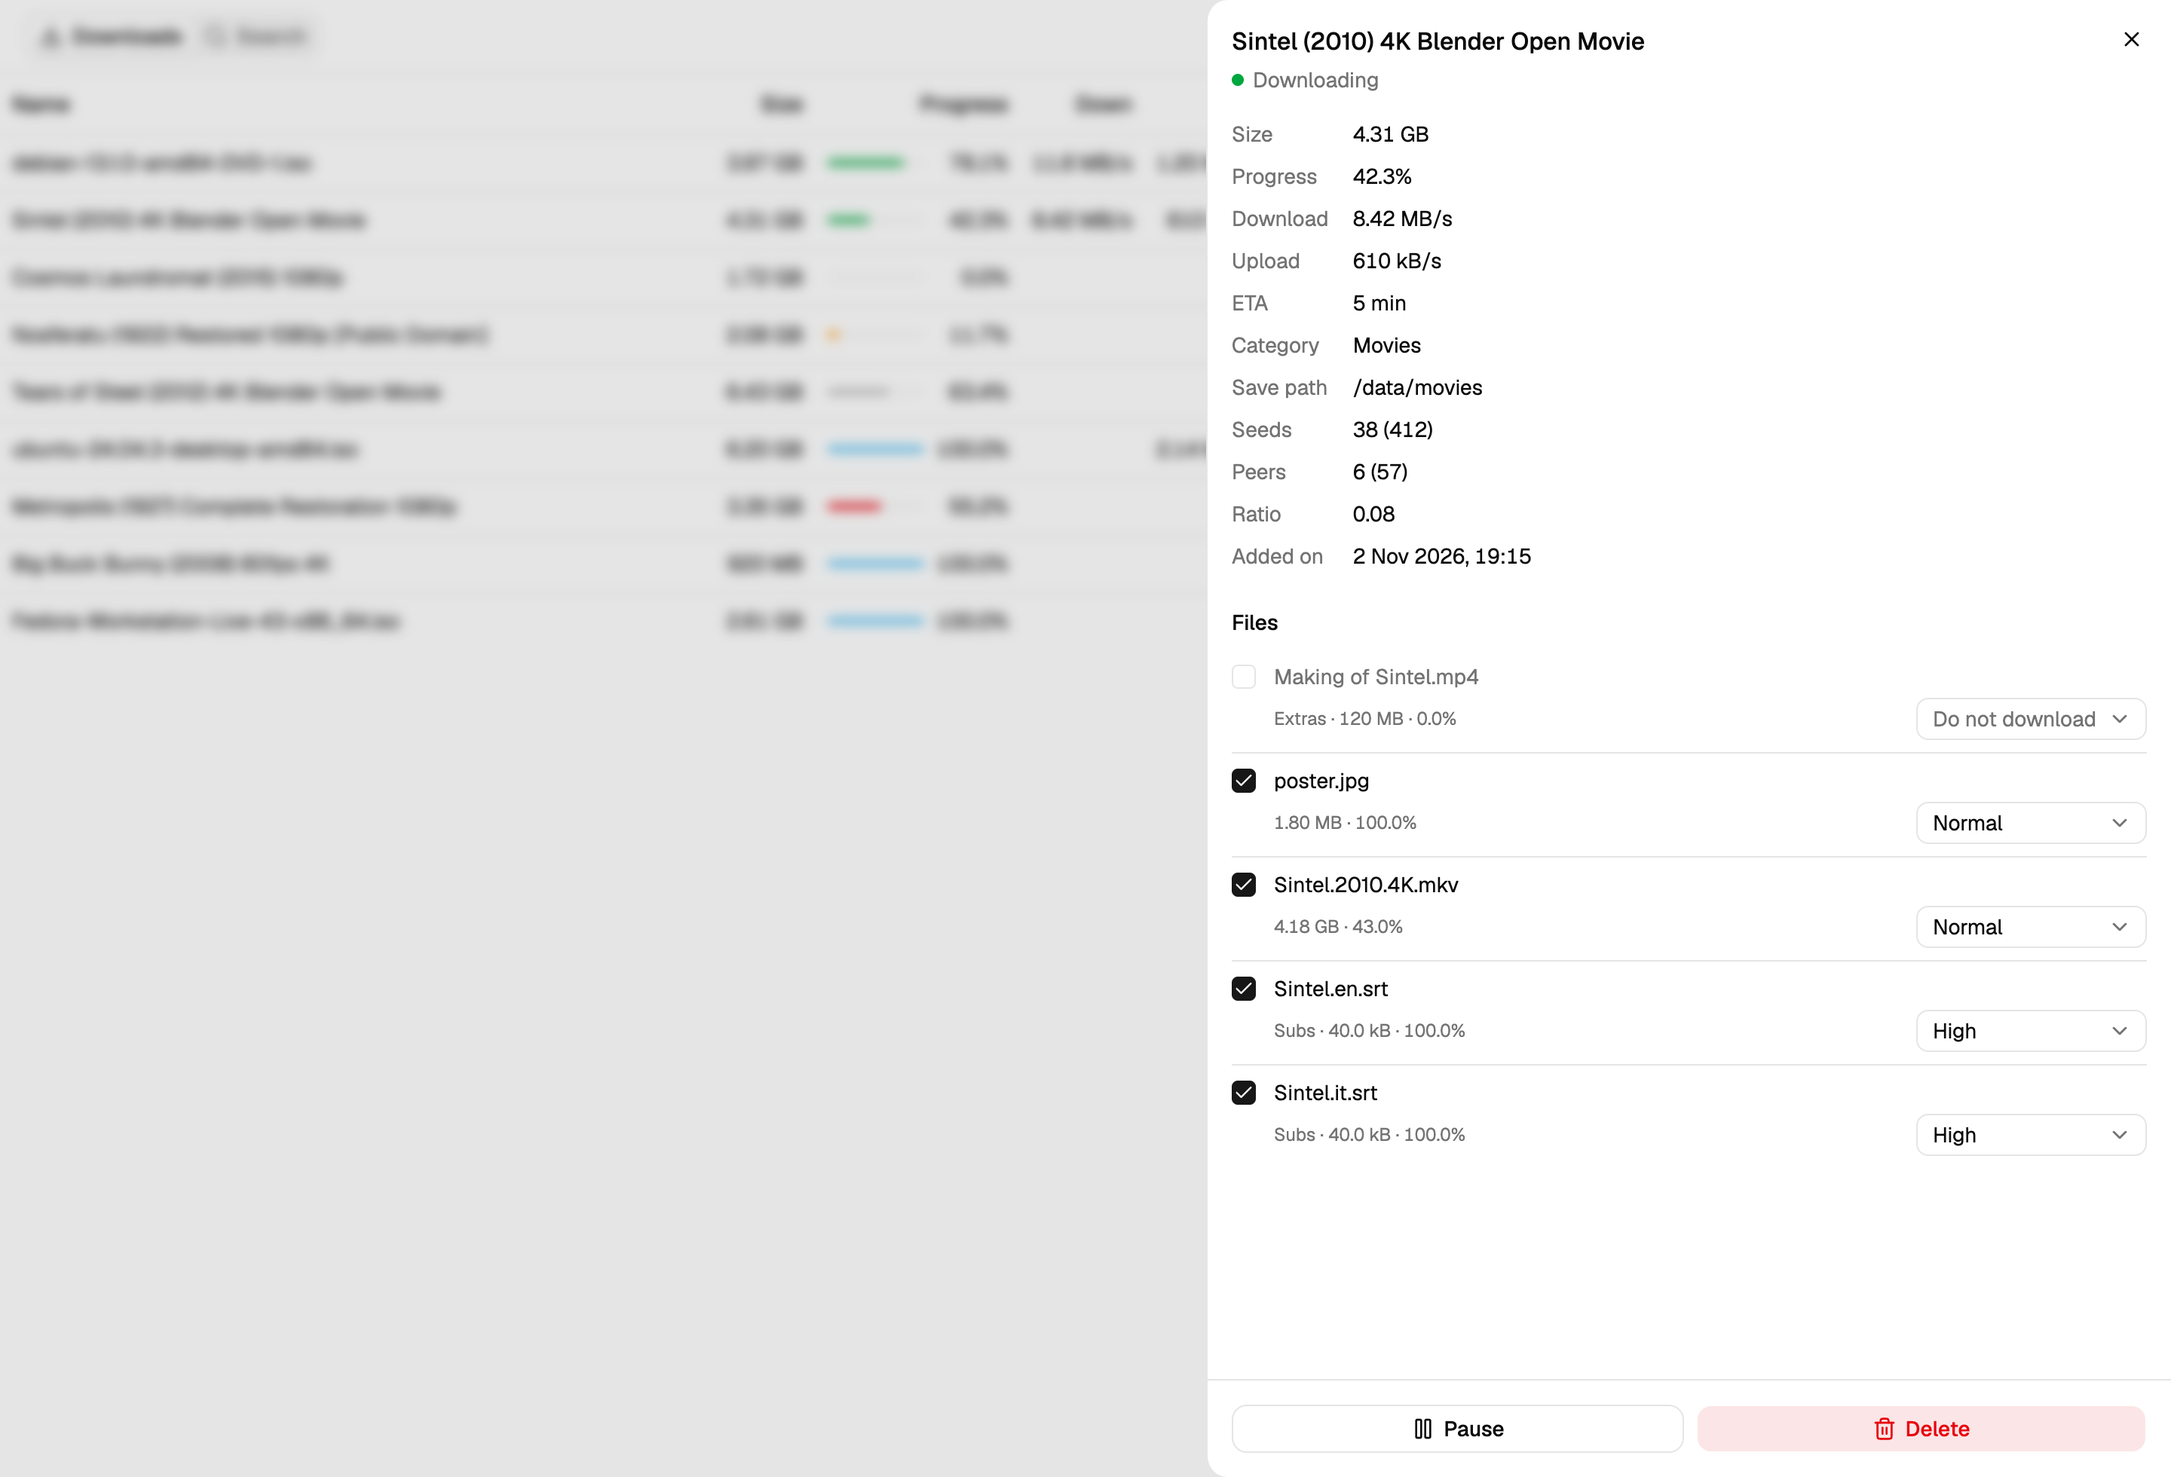
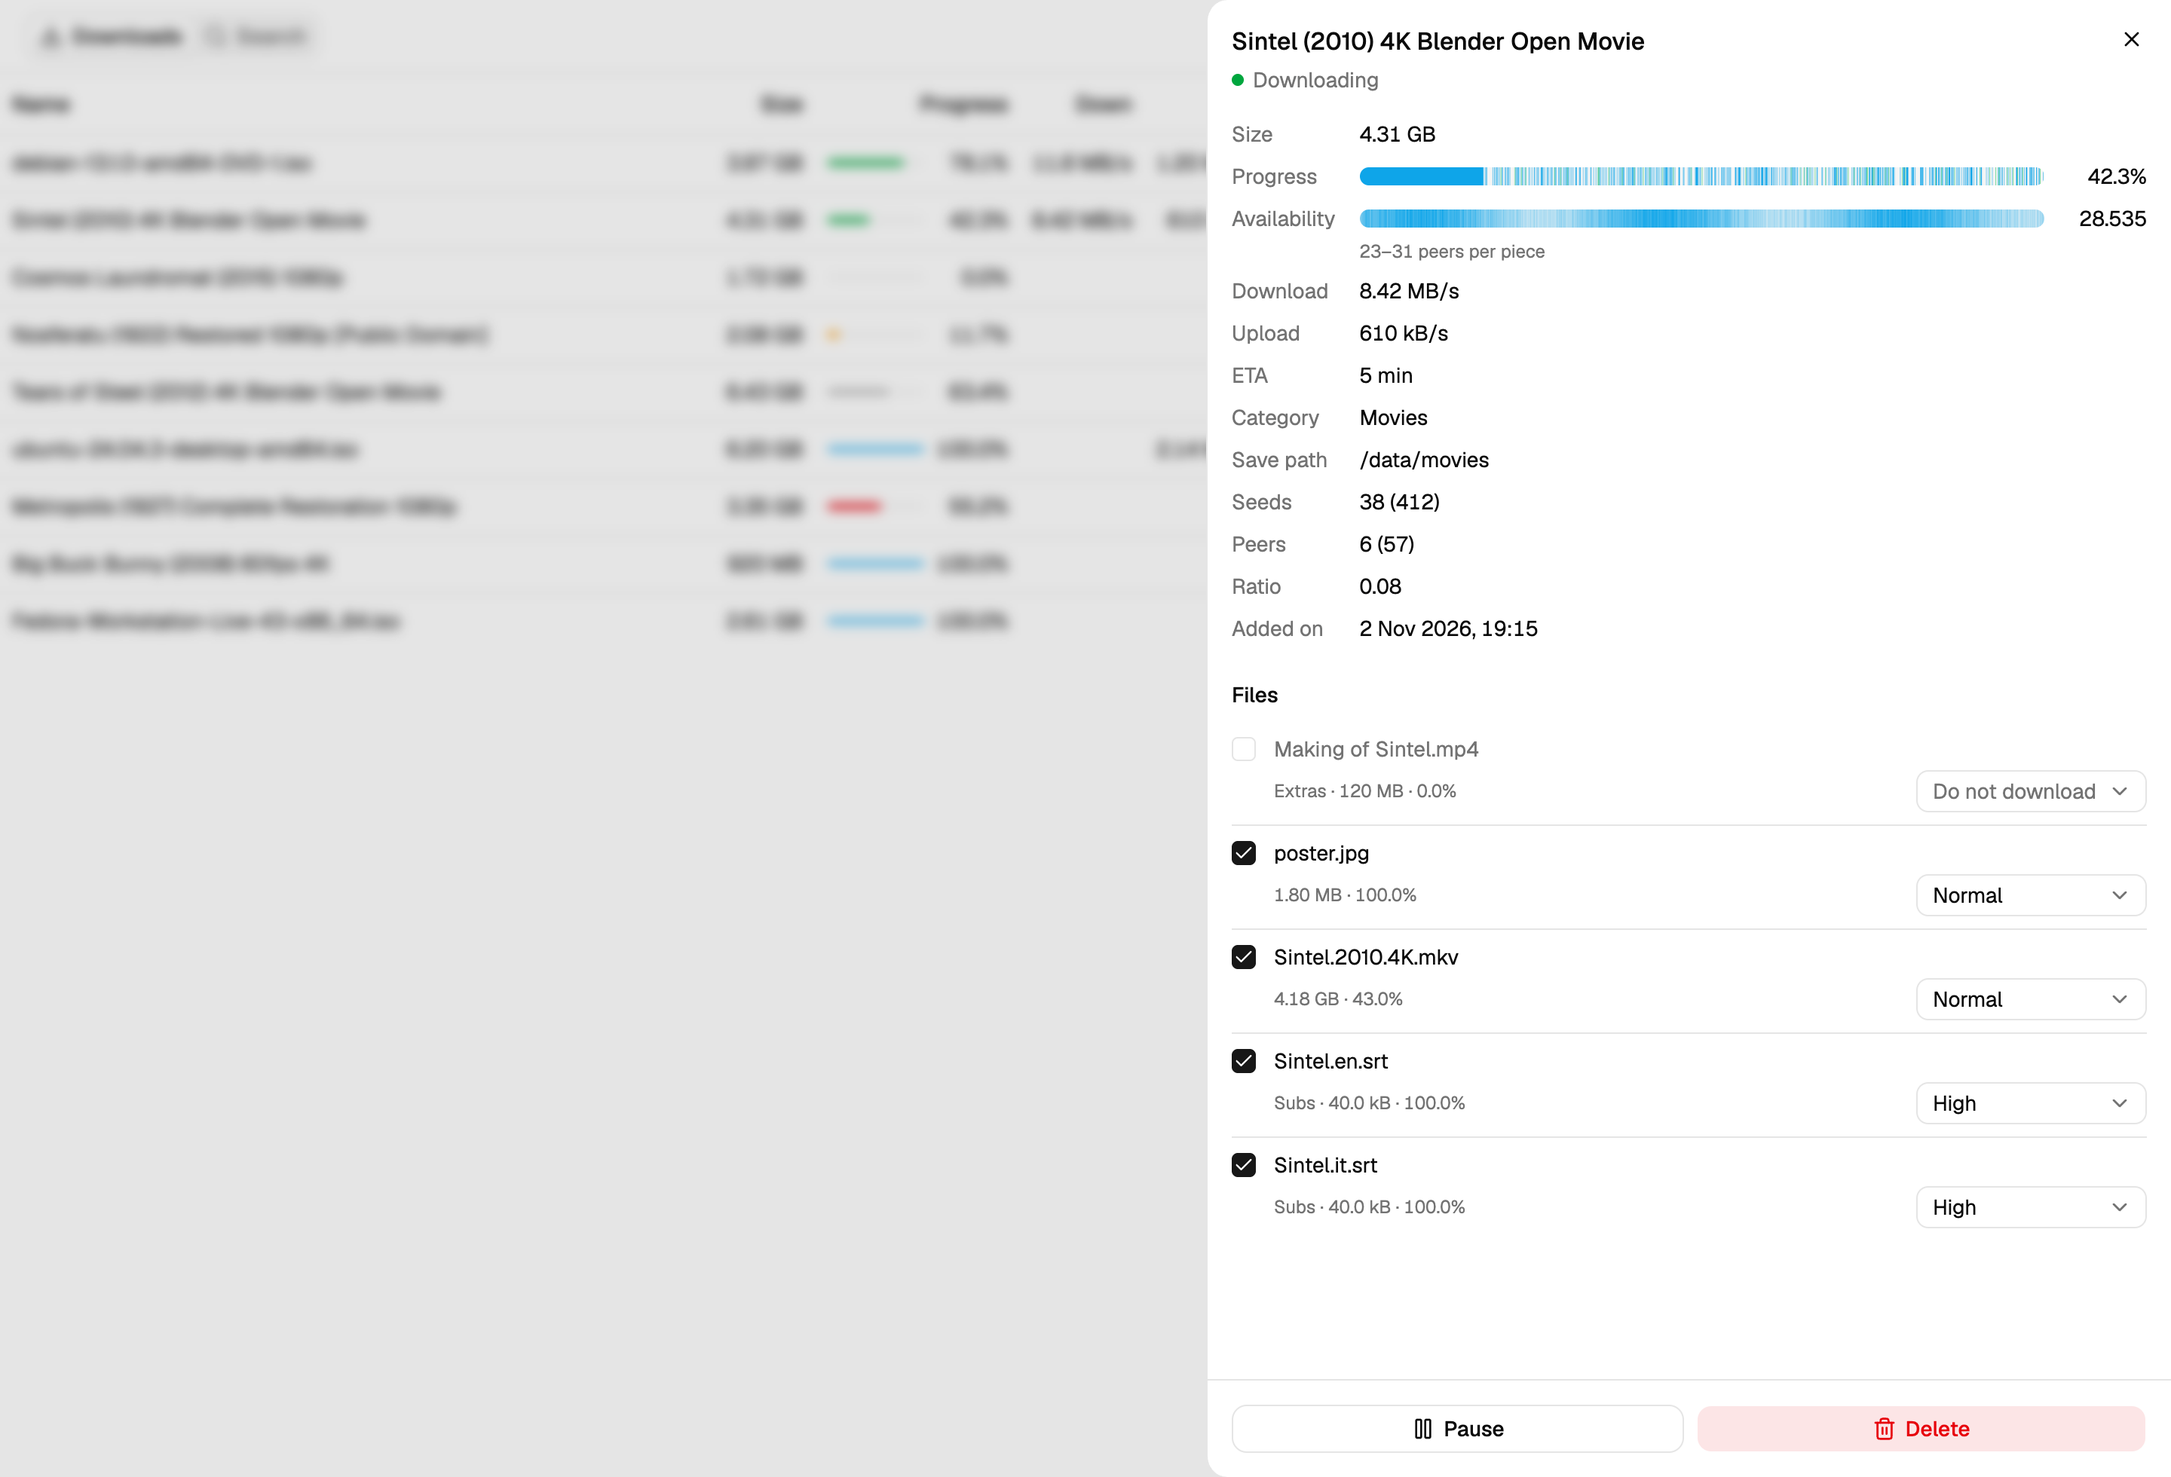
progress and distribution bars

diff --git a/src/components/torrent-drawer.tsx b/src/components/torrent-drawer.tsx
@@ -1,7 +1,11 @@
-import { Fragment, type CSSProperties } from "react"
+import type { CSSProperties, ReactNode } from "react"
 import { X } from "lucide-react"
 
 import type { Torrent } from "@/api/types"
+import {
+  PiecesAvailabilityBar,
+  PiecesProgressBar,
+} from "@/components/pieces-bar"
 import { StateLabel } from "@/components/state-label"
 import { TorrentActions } from "@/components/torrent-actions"
 import { TorrentFiles } from "@/components/torrent-files"
@@ -16,7 +20,9 @@ import {
   DrawerTitle,
 } from "@/components/ui/drawer"
 import { useMediaQuery } from "@/hooks/use-media-query"
+import { useTorrentPieces } from "@/hooks/use-torrent-pieces"
 import {
+  formatAvailability,
   formatBytes,
   formatDate,
   formatPeers,
@@ -24,6 +30,7 @@ import {
   formatRatio,
   formatSpeed,
 } from "@/lib/format"
+import { availabilityRange } from "@/lib/pieces"
 import { etaLabel } from "@/lib/torrents"
 
 // Wider than the default side panel (24rem): file names are long.
@@ -73,14 +80,7 @@ export function TorrentDrawer({
               </DrawerClose>
             )}
             <div className="flex min-h-0 flex-1 flex-col gap-6 overflow-y-auto p-4">
-              <dl className="grid grid-cols-[auto_1fr] gap-x-4 gap-y-2">
-                {details(torrent).map(([term, value]) => (
-                  <Fragment key={term}>
-                    <dt className="text-muted-foreground">{term}</dt>
-                    <dd className="wrap-anywhere tabular-nums">{value}</dd>
-                  </Fragment>
-                ))}
-              </dl>
+              <TorrentDetails torrent={torrent} />
               <TorrentFiles hash={torrent.hash} onChanged={onChanged} />
             </div>
             <DrawerFooter className="flex-row border-t pt-4 *:flex-1">
@@ -93,18 +93,59 @@ export function TorrentDrawer({
   )
 }
 
-function details(t: Torrent): [string, string][] {
-  return [
-    ["Size", formatBytes(t.size)],
-    ["Progress", formatPercent(t.progress)],
-    ["Download", formatSpeed(t.dlspeed)],
-    ["Upload", formatSpeed(t.upspeed)],
-    ["ETA", etaLabel(t)],
-    ["Category", t.category || "None"],
-    ["Save path", t.save_path],
-    ["Seeds", formatPeers(t.num_seeds, t.num_complete)],
-    ["Peers", formatPeers(t.num_leechs, t.num_incomplete)],
-    ["Ratio", formatRatio(t.ratio)],
-    ["Added on", formatDate(t.added_on)],
-  ]
+// A stable empty list while the pieces load, so the bars don't redraw for nothing.
+const NO_PIECES: number[] = []
+
+/** The details list, with pieces bars for progress and availability. */
+function TorrentDetails({ torrent: t }: { torrent: Torrent }) {
+  const pieces = useTorrentPieces(t.hash)
+  const range = pieces && availabilityRange(pieces.availability)
+  return (
+    <dl className="grid grid-cols-[auto_1fr] gap-x-4 gap-y-2">
+      <Row term="Size">{formatBytes(t.size)}</Row>
+      <Row term="Progress">
+        <PiecesProgressBar states={pieces?.states ?? NO_PIECES} />
+        <BarValue>{formatPercent(t.progress)}</BarValue>
+      </Row>
+      <Row term="Availability">
+        <PiecesAvailabilityBar availability={pieces?.availability ?? NO_PIECES} />
+        <BarValue>{formatAvailability(t.availability)}</BarValue>
+        {/* The bar's shades are relative to this range: say what it is. */}
+        {range && (
+          <span className="basis-full text-xs text-muted-foreground">
+            {range.max === 0
+              ? "No peer has any piece"
+              : range.min === range.max
+                ? `${range.max} peers per piece`
+                : `${range.min}–${range.max} peers per piece`}
+          </span>
+        )}
+      </Row>
+      <Row term="Download">{formatSpeed(t.dlspeed)}</Row>
+      <Row term="Upload">{formatSpeed(t.upspeed)}</Row>
+      <Row term="ETA">{etaLabel(t)}</Row>
+      <Row term="Category">{t.category || "None"}</Row>
+      <Row term="Save path">{t.save_path}</Row>
+      <Row term="Seeds">{formatPeers(t.num_seeds, t.num_complete)}</Row>
+      <Row term="Peers">{formatPeers(t.num_leechs, t.num_incomplete)}</Row>
+      <Row term="Ratio">{formatRatio(t.ratio)}</Row>
+      <Row term="Added on">{formatDate(t.added_on)}</Row>
+    </dl>
+  )
+}
+
+function Row({ term, children }: { term: string; children: ReactNode }) {
+  return (
+    <>
+      <dt className="text-muted-foreground">{term}</dt>
+      <dd className="flex flex-wrap items-center gap-x-3 gap-y-1 wrap-anywhere tabular-nums">
+        {children}
+      </dd>
+    </>
+  )
+}
+
+/** The value after a bar: fixed width, so the two bars line up. */
+function BarValue({ children }: { children: string }) {
+  return <span className="w-14 shrink-0 text-right">{children}</span>
 }

diff --git a/src/lib/pieces.ts b/src/lib/pieces.ts
@@ -1,0 +1,76 @@
+// Pieces bars: a torrent has thousands of pieces and a bar a few hundred
+// pixels, so each pixel shows the pieces that fall in it, a piece counting by
+// how much of it falls there (as the official WebUI's bars).
+
+const DOWNLOADING = 1
+const DOWNLOADED = 2
+
+/** For each pixel, the share (0 to 1) of it downloading and downloaded. */
+export function statesPerPixel(states: number[], width: number) {
+  const downloading = new Array<number>(Math.max(width, 0)).fill(0)
+  const downloaded = new Array<number>(Math.max(width, 0)).fill(0)
+  eachShare(states.length, width, (x, piece, share) => {
+    if (states[piece] === DOWNLOADING) downloading[x] += share
+    else if (states[piece] === DOWNLOADED) downloaded[x] += share
+  })
+  return downloaded.map((d, x) => ({
+    downloading: Math.min(downloading[x], 1),
+    downloaded: Math.min(d, 1),
+  }))
+}
+
+// The least shared pieces still show, faintly: empty means no peer has them.
+const FAINTEST = 0.2
+
+/**
+ * For each pixel, how shared its pieces are, from FAINTEST (the least shared
+ * piece) to 1 (the most shared), or 0 where no peer has them. Relative to the
+ * torrent's own range: peers usually hold most pieces, and against zero the
+ * differences would not show.
+ */
+export function availabilityPerPixel(availability: number[], width: number) {
+  const average = new Array<number>(Math.max(width, 0)).fill(0)
+  eachShare(availability.length, width, (x, piece, share) => {
+    average[x] += share * availability[piece]
+  })
+  const [low, high] = minMax(availability.filter((n) => n > 0))
+  return average.map((value) => {
+    if (value <= 0) return 0
+    if (high === low) return 1
+    const t = Math.min(Math.max((value - low) / (high - low), 0), 1)
+    return FAINTEST + (1 - FAINTEST) * t
+  })
+}
+
+/** The fewest and most peers holding a piece, or undefined without pieces. */
+export function availabilityRange(availability: number[]) {
+  if (availability.length === 0) return undefined
+  const [min, max] = minMax(availability)
+  return { min, max }
+}
+
+// Math.min(...list) would overflow the call stack on huge torrents.
+function minMax(list: number[]): [number, number] {
+  return list.reduce<[number, number]>(
+    ([min, max], n) => [Math.min(min, n), Math.max(max, n)],
+    [list.length ? Infinity : 0, list.length ? -Infinity : 0]
+  )
+}
+
+/** Calls `visit` with each piece's share of each pixel it falls in (shares of a pixel sum to 1). */
+function eachShare(
+  count: number,
+  width: number,
+  visit: (pixel: number, piece: number, share: number) => void
+) {
+  if (count === 0 || width <= 0) return
+  const piecesPerPixel = count / width
+  for (let x = 0; x < width; x++) {
+    const from = x * piecesPerPixel
+    const to = (x + 1) * piecesPerPixel
+    for (let piece = Math.floor(from); piece < Math.ceil(to) && piece < count; piece++) {
+      const covered = Math.min(piece + 1, to) - Math.max(piece, from)
+      visit(x, piece, covered / piecesPerPixel)
+    }
+  }
+}

diff --git a/src/components/pieces-bar.tsx b/src/components/pieces-bar.tsx
@@ -1,0 +1,82 @@
+import { useCallback, useEffect, useRef, useState } from "react"
+
+import { availabilityPerPixel, statesPerPixel } from "@/lib/pieces"
+
+// Tailwind's sky-500 and green-500, as the state colors: blue for what is
+// there, green for what is downloading.
+const HAVE_COLOR = "#0ea5e9"
+const DOWNLOADING_COLOR = "#22c55e"
+
+type Draw = (ctx: CanvasRenderingContext2D, width: number, height: number) => void
+
+/** A thin bar of the pieces: downloaded in blue, downloading in green. */
+export function PiecesProgressBar({ states }: { states: number[] }) {
+  const draw = useCallback<Draw>(
+    (ctx, width, height) => {
+      statesPerPixel(states, width).forEach(({ downloaded, downloading }, x) => {
+        fill(ctx, x, height, downloaded, HAVE_COLOR)
+        fill(ctx, x, height, downloading, DOWNLOADING_COLOR)
+      })
+    },
+    [states]
+  )
+  return <PixelBar draw={draw} label="Pieces downloaded" />
+}
+
+/** A thin bar of how many peers have each piece: the bluer, the more. */
+export function PiecesAvailabilityBar({ availability }: { availability: number[] }) {
+  const draw = useCallback<Draw>(
+    (ctx, width, height) => {
+      availabilityPerPixel(availability, width).forEach((value, x) =>
+        fill(ctx, x, height, value, HAVE_COLOR)
+      )
+    },
+    [availability]
+  )
+  return <PixelBar draw={draw} label="Pieces available from peers" />
+}
+
+/** One pixel column, as opaque as `share`: a pixel can mix several pieces. */
+function fill(
+  ctx: CanvasRenderingContext2D,
+  x: number,
+  height: number,
+  share: number,
+  color: string
+) {
+  if (share <= 0) return
+  ctx.globalAlpha = share
+  ctx.fillStyle = color
+  ctx.fillRect(x, 0, 1, height)
+}
+
+/** A canvas over a muted track, drawn pixel by pixel at the screen's resolution. */
+function PixelBar({ draw, label }: { draw: Draw; label: string }) {
+  const canvas = useRef<HTMLCanvasElement>(null)
+  const [width, setWidth] = useState(0)
+
+  useEffect(() => {
+    const element = canvas.current
+    if (!element) return
+    const observer = new ResizeObserver(([entry]) =>
+      setWidth(Math.round(entry.contentRect.width * devicePixelRatio))
+    )
+    observer.observe(element)
+    return () => observer.disconnect()
+  }, [])
+
+  useEffect(() => {
+    const element = canvas.current
+    const ctx = element?.getContext("2d")
+    if (!element || !ctx || width === 0) return
+    element.width = width
+    element.height = Math.round(element.clientHeight * devicePixelRatio)
+    draw(ctx, element.width, element.height)
+  }, [draw, width])
+
+  return (
+    <div className="h-3 min-w-0 flex-1 overflow-hidden rounded-sm bg-muted">
+      <canvas ref={canvas} role="img" aria-label={label} className="block size-full" />
+    </div>
+  )
+}

diff --git a/src/hooks/use-torrent-pieces.ts b/src/hooks/use-torrent-pieces.ts
@@ -1,0 +1,39 @@
+import { useEffect, useState } from "react"
+
+import { getPieceAvailability, getPieceStates } from "@/api/client"
+
+// As often as the official WebUI refreshes its General tab.
+const REFRESH_INTERVAL_MS = 5000
+
+/** A torrent's piece states and availability, refreshed every 5 s while mounted. */
+export function useTorrentPieces(hash: string) {
+  const [pieces, setPieces] = useState<{ states: number[]; availability: number[] }>()
+
+  useEffect(() => {
+    let cancelled = false
+    let timer: ReturnType<typeof setTimeout> | undefined
+
+    async function load() {
+      if (!document.hidden) {
+        try {
+          const [states, availability] = await Promise.all([
+            getPieceStates(hash),
+            getPieceAvailability(hash),
+          ])
+          if (!cancelled) setPieces({ states, availability })
+        } catch {
+          // Keep the last bars: the main polling reports connection problems.
+        }
+      }
+      if (!cancelled) timer = setTimeout(load, REFRESH_INTERVAL_MS)
+    }
+
+    void load()
+    return () => {
+      cancelled = true
+      clearTimeout(timer)
+    }
+  }, [hash])
+
+  return pieces
+}

diff --git a/src/api/client.ts b/src/api/client.ts
@@ -84,6 +84,16 @@ export function getTorrentFiles(hash: string) {
   return getJson<TorrentFile[]>(`torrents/files?hash=${hash}`)
 }
 
+/** Per piece: 0 missing, 1 downloading, 2 downloaded. Empty without metadata. */
+export function getPieceStates(hash: string) {
+  return getJson<number[]>(`torrents/pieceStates?hash=${hash}`)
+}
+
+/** Per piece: how many connected peers have it. */
+export function getPieceAvailability(hash: string) {
+  return getJson<number[]>(`torrents/pieceAvailability?hash=${hash}`)
+}
+
 /** Priority 0 means "do not download". 409: no metadata yet. */
 export async function setFilePriority(
   hash: string,

diff --git a/src/lib/format.ts b/src/lib/format.ts
@@ -41,6 +41,11 @@ export function formatRatio(ratio: number) {
   return ratio < 0 ? "∞" : truncate(ratio, 2)
 }
 
+/** "28.535" full copies among peers, as the official WebUI; "" when unknown (-1). */
+export function formatAvailability(copies: number) {
+  return copies < 0 ? "" : truncate(copies, 3)
+}
+
 /** "3 (120)": peers we are connected to, and in the swarm when known. */
 export function formatPeers(connected: number, swarm: number) {
   return swarm >= 0 ? `${connected} (${swarm})` : String(connected)

diff --git a/src/api/types.ts b/src/api/types.ts
@@ -45,6 +45,8 @@ export interface Torrent {
   ratio: number
   /** Ratio per month of activity; -1 when infinite. */
   popularity: number
+  /** Full copies the connected peers hold together; -1 when unknown. */
+  availability: number
   /** Seeds and leechers we are connected to, and in the whole swarm. */
   num_seeds: number
   num_complete: number

diff --git a/docs/SPEC.md b/docs/SPEC.md
@@ -55,9 +55,21 @@ with "Also delete the downloaded files" (off by default).
 
 ### Mobile detail (bottom sheet)
 
-Name (full), size, progress %, download speed, upload speed, ETA, state,
-category, destination folder, seeds/peers, ratio, added on; the files; the
-actions.
+Name (full), size, progress %, availability, download speed, upload speed,
+ETA, state, category, destination folder, seeds/peers, ratio, added on; the
+files; the actions.
+
+**Pieces bars**, beside progress and availability, as in the official
+WebUI's General tab: `GET torrents/pieceStates` (per piece: 0 missing,
+1 downloading, 2 downloaded) and `GET torrents/pieceAvailability` (per piece:
+how many peers have it), refreshed every 5 s while open. Each pixel shows the
+pieces falling in it: downloaded in blue, downloading in green. Availability
+in blue, from faint (the least shared piece) to full (the most shared), empty
+where no peer has the pieces. The scale is relative to the torrent's own range
+because peers usually hold most pieces, and against zero the differences
+don't show (the official WebUI's bar looks uniform for that reason). Under it,
+the real range: "23–31 peers per piece". The number after availability is the
+torrent's `availability` (full copies among peers, 3 decimals).
 
 **Files** (`GET torrents/files?hash=`, refreshed every 5 s while open, as the
 official WebUI): one row per file, sorted by path, without the folder they all
